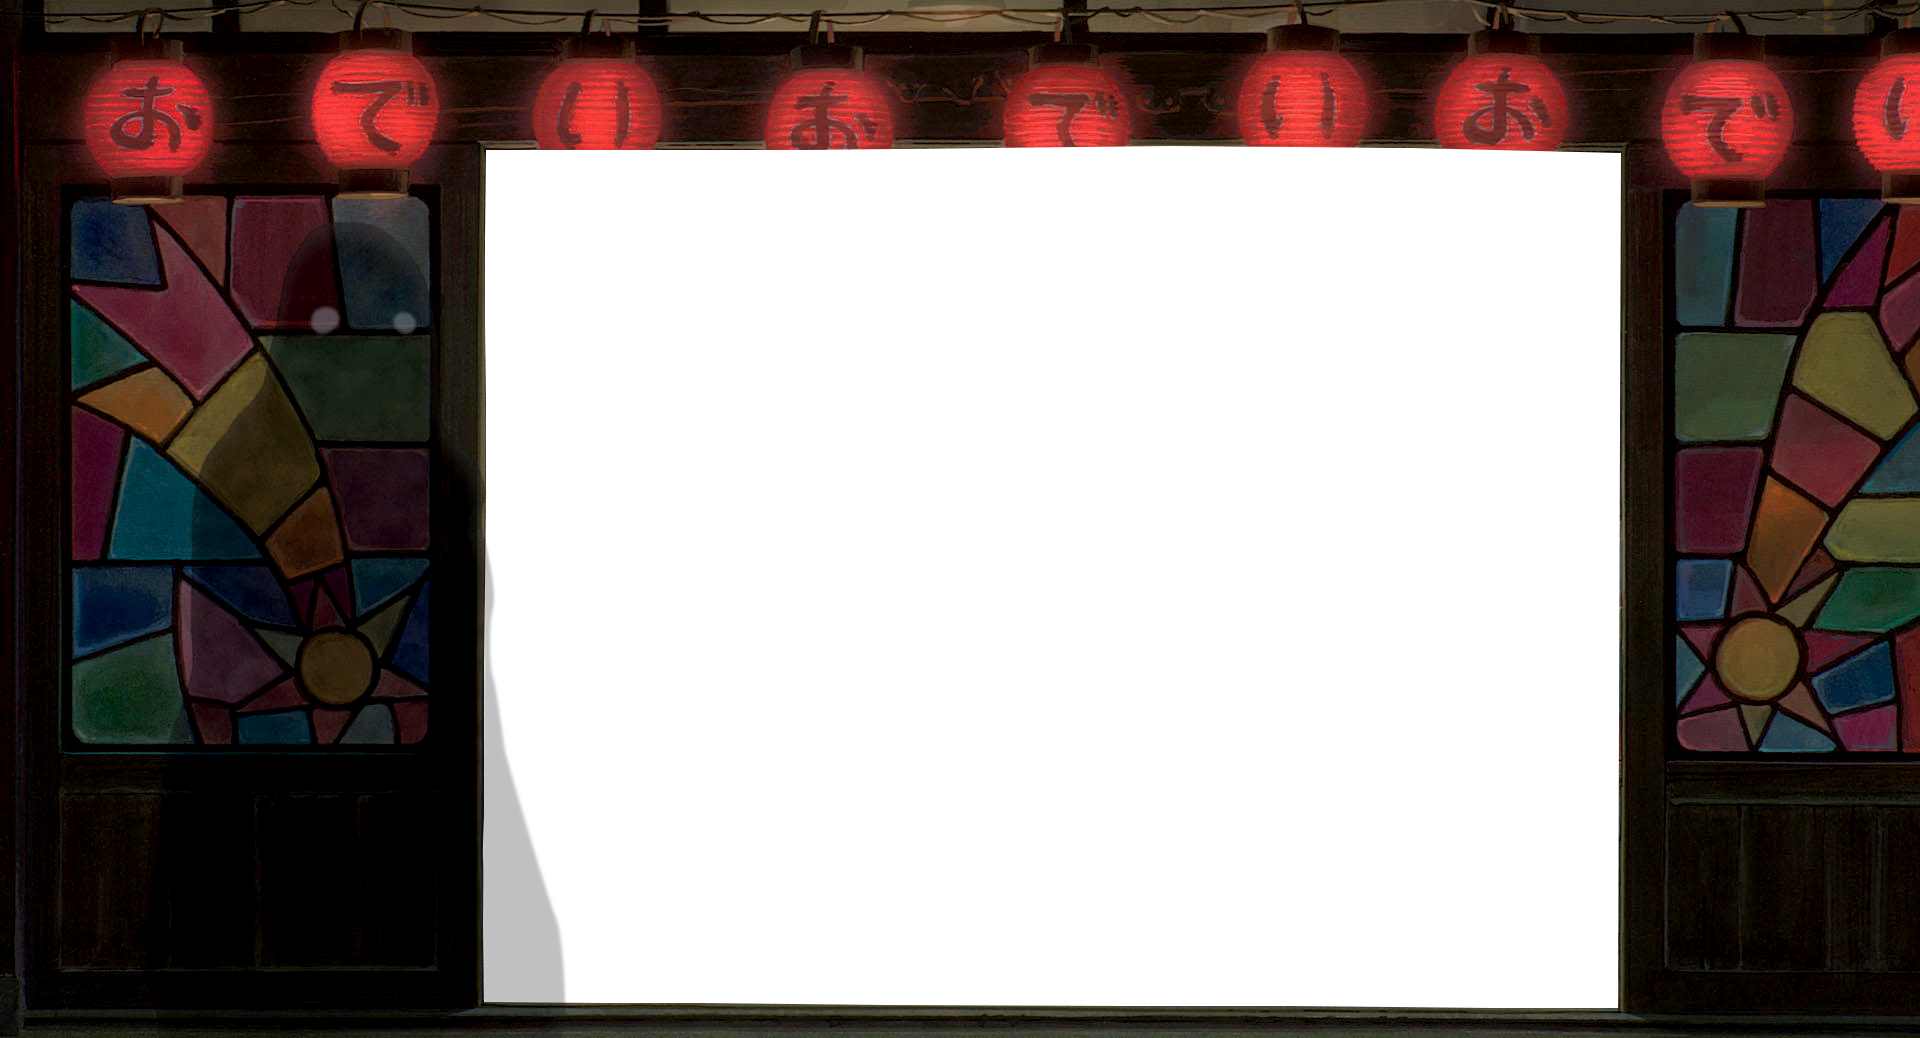
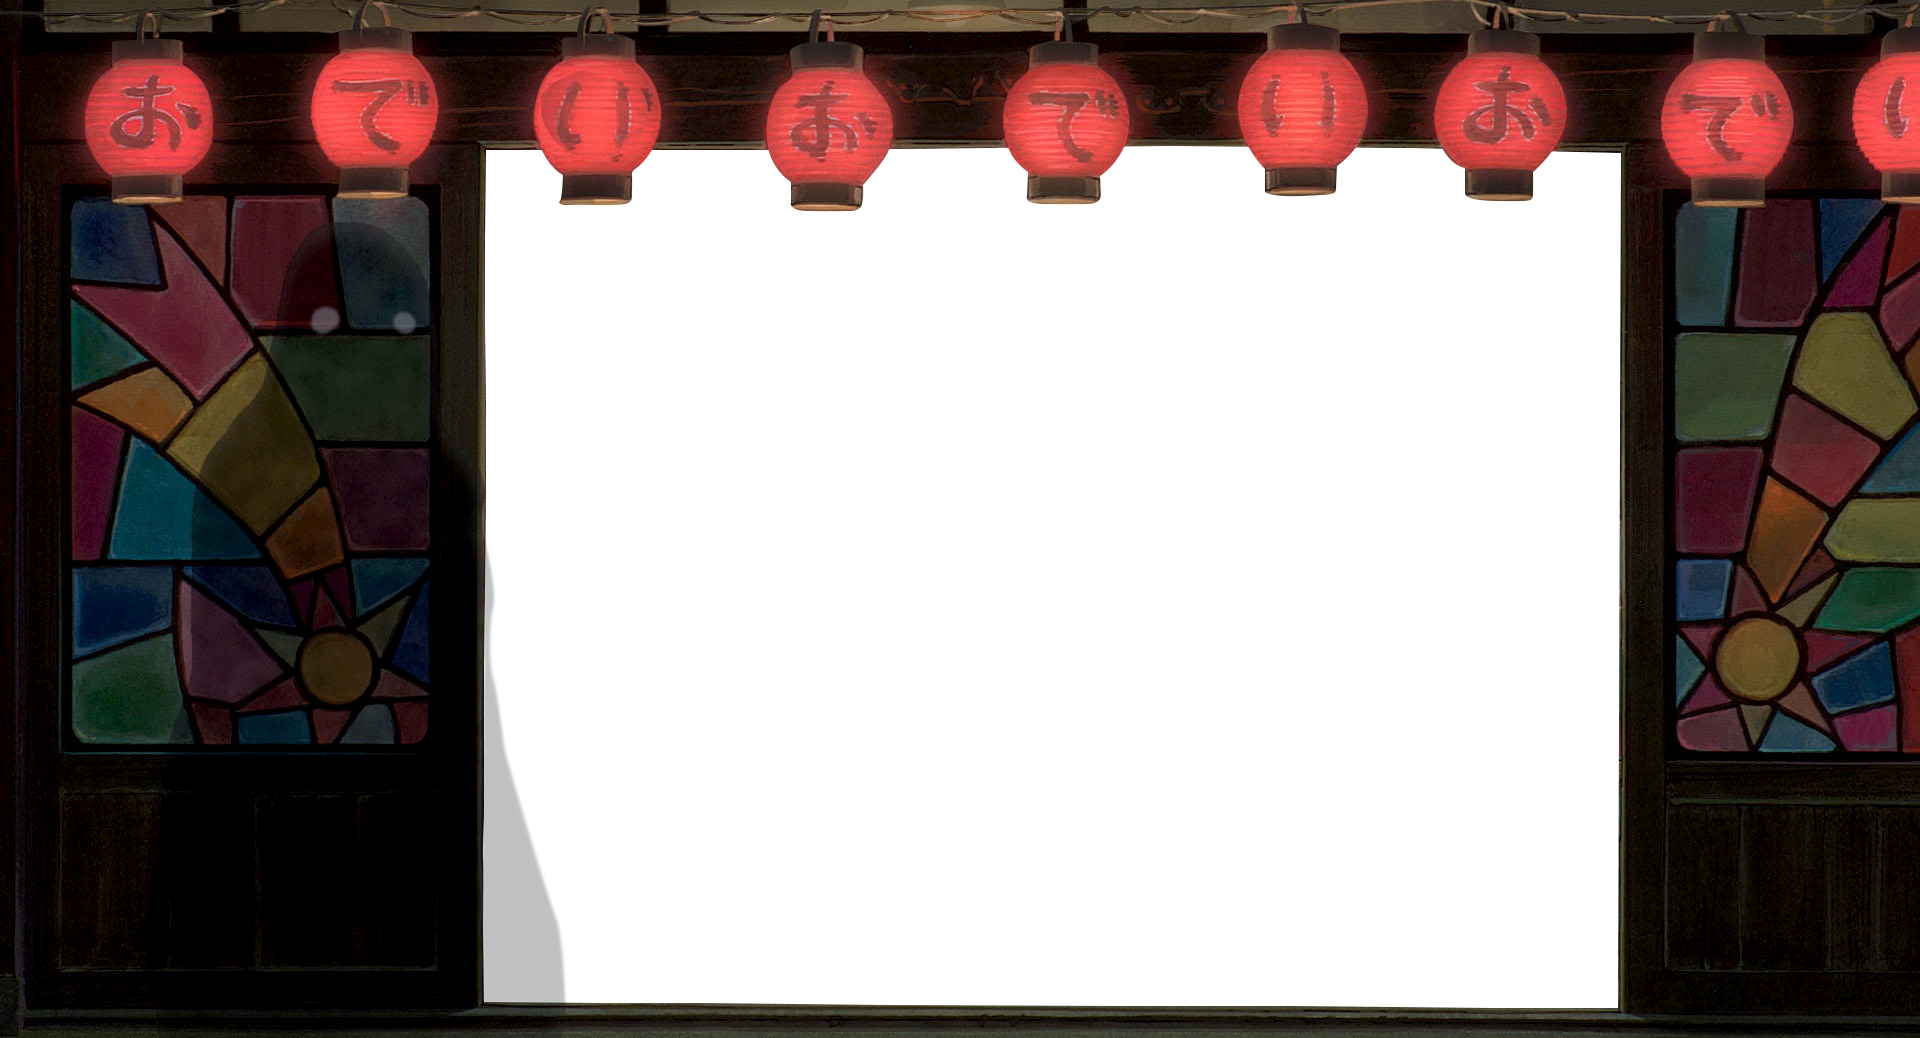
event page is added blink effect

diff --git a/event.html b/event.html
@@ -9,10 +9,18 @@
   <link href="./css/event.css" rel="stylesheet">
 </head>
 <body>
-  <div id="container" class="flex flex-direction-column">
+  <div id="container" class="flex flex-direction-column absolute">
     <!-- ***랜턴이미지*** -->
     <div id="lantern" class="absolute"></div>
+
+
+
+
+    <!-- ***배경*** -->
+    <div id="bg" class="absolute"></div>
     
+
+
     
     <!-- ***헤더영역*** -->
     <div id="header-wrap" class="flex space-between">
@@ -190,9 +198,27 @@
 
 
   <!-- ***슬라이드(이벤트 리스트)*** -->
-  <div id="slide" class="absolute">
-    <ul id="slide-ul" class="flex absolute">
-      <li></li>
+  <div id="slide" class="absolute flex justify-content-center">
+    <ul id="slide-ul" class="flex">
+      <li id="slide1" class="slide-li flex justify-content-end">
+        <div class="banner flex justify-content-end">
+          <img src="./img/event/Ghibli_exhibition.png" alt="banner1">
+        </div>
+        <div class="slide-text flex align-items-end flex-direction-column">
+          <strong class="slide-title block">Toshio SUZUKI Ghibli exhibition</strong>
+          <span class="place block">The Museum of Kyoto(Kyoto Prefecture)</span>
+          <p class="date">
+            2022.04.23(Sat)- 2022.06.19(Sun)
+          </p>
+          <p class="explain">
+            Takahata Isao ・ Miyazaki and the Kata-mai (literally, " both have sent a bunch of animated film out in the world along with Studio Ghibli and producers Toshio Suzuki 
+            producer) draw attention to an exhibition.
+          </p>
+        </div>
+        <div class="button">
+          More
+        </div>
+      </li>
     </ul>
   </div>
   <!-- 컨트롤(페이저) -->
@@ -289,32 +315,54 @@ sidemenuUl.addEventListener('click', function(event) {
 
 
 
-<!-- ***사이드메뉴 info 누르면 '1. 영화정보 보이기', '2. 페이저 숨기기'*** -->
+<!-- ***사이드메뉴 closed 누르면 '1. 종료된 행사 보이기', '2. 페이저 숨기기', '3. 랜턴 깜박'*** -->
   <script>
     const film = document.querySelector("#film");
     const sidemenuLi = document.querySelectorAll("#side-menu-ul li");
-    const pagerWrap = document.querySelector("#pager-wrap");
+    const controls = document.querySelector("#controls");
+    const slide = document.querySelector("#slide");
     const lantern = document.querySelector("#lantern");
 
     // info on
     sidemenuLi[1].onclick = function(e) {
       film.style.opacity = 1;
-      pagerWrap.style.opacity = 0;
-      lantern.style.zIndex = "0";
+      film.style.zIndex = 1;
+      slide.style.zIndex = 0;
+      lantern.style.zIndex = 0;
+      lantern.style.opacity = 0;
+      controls.style.opacity = 0;
     }
 
     // info off
     sidemenuLi[0].onclick = function(e) {
       film.style.opacity = 0;
-      pagerWrap.style.opacity = 1;
-      lantern.style.zIndex = "1";
+      film.style.zIndex = 0;
+      slide.style.zIndex = 2;
+      lantern.style.zIndex = 2;
+      controls.style.opacity = 1;
+      const blink0 = setTimeout(function(){
+        lantern.style.opacity = 1;
+      }, 16);
+      const blink1 = setTimeout(function(){
+        lantern.style.opacity = 0;
+      }, 300);
+      const blink2 = setTimeout(function(){
+        lantern.style.opacity = 1;
+      }, 500);
+      const blink3 = setTimeout(function(){
+        lantern.style.opacity = 0;
+      }, 600);
+      const blink4 = setTimeout(function(){
+        lantern.style.opacity = 1;
+      }, 1200);
+      
     }
   </script>
 
 
 
 
-  <!-- ***진입시 페이드효과*** -->
+  <!-- ***진입시 페이드효과, 랜턴 깜빡*** -->
   <script>
     const movieBg = document.querySelector("#movie-bg");
 

diff --git a/css/event.css b/css/event.css
@@ -1,7 +1,8 @@
 /* ***컨테이너*** */
 #container {
-  background: url(../img/bg/event_blank1.png) 100% 100% no-repeat;
-  background-size: cover;
+  left:0;
+  top:0;
+  background-color: #0f1216;
 }
 
 
@@ -15,29 +16,22 @@
   height:100%;
   background: url(../img/bg/lantern.png) 100% 100% no-repeat;
   background-size: cover;
+  z-index: 2;
+  transition: .5s;
 }
 
 
 
 
-
-/* ***타이틀*** */
-#title {
-  margin-left:3rem;
-}
-#title strong {
-  font-family: 'Be Vietnam Pro', sans-serif;
-  font-style: normal;
-  font-weight: 400;
-  font-size: 1.75rem;
-  letter-spacing: -0.025rem;
-  color: #F9FFFE;
-  line-height: 1;
-}
-#close a {
+/* ***배경이미지*** */
+#bg {
   width:100%;
-  margin-left:1rem;
-  transform: translateY(.2rem);
+  height:100%;
+  background: url(../img/bg/event_blank3.png) 100% 100% no-repeat;
+  background-size: cover;
+  left:0;
+  top:0;
+  z-index: 1;
 }
 
 
@@ -71,6 +65,7 @@
 
 /* ***영화정보*** */
 #film {
+  left:0;
   top: 0;
   width:100%;
   height:100%;
@@ -78,6 +73,7 @@
   padding:2rem 2rem 6rem;
   transition: .5s;
   opacity: 0;
+  z-index: 0;
 }
 #poster {
   width:23.625rem;
@@ -121,37 +117,91 @@
 
 /* ***슬라이드(배경화면)*** */
 #slide {
-  width:100vw;
-  height:100vh;
-  left:0;
-  top:0;
-  z-index: -1;
-  background-color: #00493d;
-}
-#slide-ul {
-  width:1330px;
-  height:1020px;
-
-  left:50%;
+  width:1000px;
+  height:800px;
+  left:26rem;
   top:50%;
-  transform: translate(-50%,-50%);
+  transform: translate(9rem, -50%);
+  z-index: 2;
 }
-#slide-ul img {
-  height:104%;
+/* ul */
+#slide-ul {
+  width:100%;
+  height:100%;
+  box-sizing: border-box;
+  padding-right: 1rem;
 }
+/* li */
+.slide-li {
+  width:100%;
+  height:100%;
+}
+/* 배너 */
+.banner {
+  margin-top: 7.625rem;
+}
+.banner img {
+  filter: grayscale(0%);
+  width:80%;
+}
+/* 텍스트 */
+.slide-text * {
+  text-align: end;
+  line-height: 1.6;
+  letter-spacing: -.025em;
+  width:80%;
+}
+/* 타이틀 */
+.slide-title {
+  margin: 1.4rem 0 1rem;
+  font-size:2.5rem;
+  font-weight: 500;
+  color:rgba(250, 250, 250, .98);
+}
+/* 일정, 장소 */
+.date, .place {
+  font-size:1.125rem;
+  font-weight: 300;
+  color:rgba(250, 250, 250, .8);
+}
+/* 설명 */
+.explain {
+  margin-top:2rem;
+  font-size:.875rem;
+  font-weight: 200;
+  color:rgba(250, 250, 250, .6);
+}
+/* 버튼 */
+.button {
+  width:140px;
+  height:30px;
+  border-radius: 15px;
+  background-color: rgba(250, 250, 250, .6);
+  cursor: pointer;
+  letter-spacing: -.025em;
+  text-align: center;
+  float: right;
+  margin-top:4rem;
+  transition: .5s;
+}
+.button:hover {
+  background-color: rgba(250, 250, 250, 1);
+}
+
+
 
 
 /* ***컨트롤(페이저)*** */
 #controls{
   bottom:3rem;
-  left:50%;
+  left:53%;
   transform: translateX(-50%);
   width:10rem;
   height:1.6rem;
   transition: .3s;
   padding:.8rem 1.6rem;
   border-radius: 2rem;
-  z-index: 1;
+  z-index: 98;
   color: rgba(249, 255, 254, .6);
 }
 /* 페이저 호버 */

diff --git a/gallery.html b/gallery.html
@@ -327,18 +327,18 @@ sidemenuUl.addEventListener('click', function(event) {
   <script>
     const film = document.querySelector("#film");
     const sidemenuLi = document.querySelectorAll("#side-menu-ul li");
-    const pagerWrap = document.querySelector("#pager-wrap");
+    const controls = document.querySelector("#controls");
 
     // info on
     sidemenuLi[1].onclick = function(e) {
       film.style.opacity = 1;
-      pagerWrap.style.opacity = 0;
+      controls.style.opacity = 0;
     }
 
     // info off
     sidemenuLi[0].onclick = function(e) {
       film.style.opacity = 0;
-      pagerWrap.style.opacity = 1;
+      controls.style.opacity = 1;
     }
   </script>
 

diff --git a/css/reset.css b/css/reset.css
@@ -23,6 +23,7 @@
 .justify-content-end {justify-content: end;}
 .justify-self-center {justify-self: center;}
 .flex-direction-column {flex-direction: column;}
+.align-items-end {align-items: flex-end;}
 .align-items-center {align-items: center;}
 .align-self-start {align-self: flex-start;}
 .flex-nowrap {flex-wrap: nowrap;}
@@ -84,7 +85,7 @@ header:hover {
 #logo img {
   width:100%;
 }
-/* 사이드메뉴(메뉴클릭시 소환) */
+/* 메뉴클릭시 소환 */
 #menu {
   display: none;
   left:50%;
